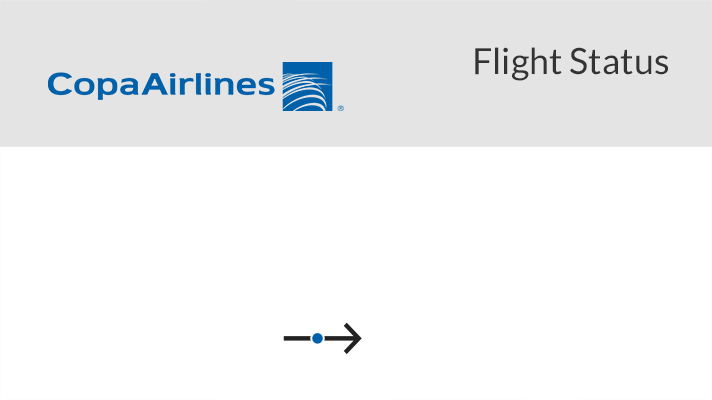
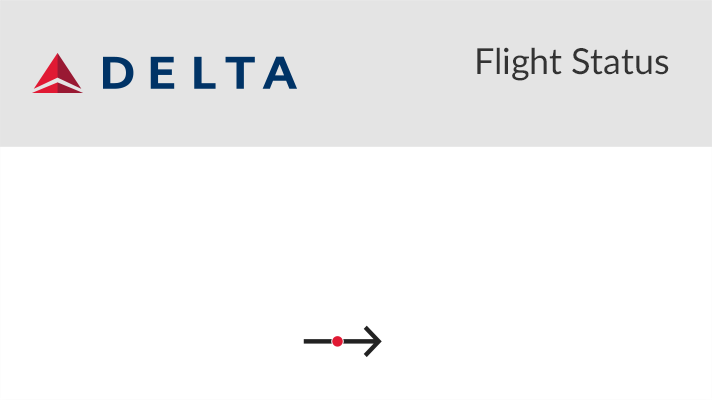
Branding Delta

diff --git a/public/css/style.css b/public/css/style.css
@@ -11,8 +11,8 @@ body {
 	font-size: 16px;
 }
 .navbar-inverse {
-    background-color: #0060a9;
-    border-color: #0060a9;
+    background-color: #003366;
+    border-color: #003366;
 }
 .navbar-brand {
     padding: 7px 0px 5px;
@@ -92,10 +92,10 @@ h3 {
     margin: 10px auto;
 }
 .red{
-	color: #0060a9;
+	color: #003366;
 }
 a.red, a.red:active{
-	color: #0060a9;
+	color: #003366;
 }
 a.red:hover{
 	color: #004477;

diff --git a/src/classes.php b/src/classes.php
@@ -898,9 +898,9 @@ class FlightImage {
         $img->text($FlightData->location, $FontPathRegular, 22, '#a9a9a9', 'top', 195, 269);
 
         //City 1 Bogota Big
-        $img->text("BOG", $FontPathLight, 62, '#0060a9', 'left', 22, 140);
+        $img->text("BOG", $FontPathLight, 62, '#003366', 'left', 22, 140);
         // City 2  BIG
-        $img->text($FlightData->airport, $FontPathLight, 62, '#0060a9', 'right', -85, 140);
+        $img->text($FlightData->airport, $FontPathLight, 62, '#003366', 'right', -85, 140);
         
         //Once Created set path to be saved 
 

diff --git a/templates/checkout.php b/templates/checkout.php
@@ -37,7 +37,7 @@ $AwsHost = 'http://bot.airportdigital.com/AirlineBotService/public/';
             <span class="icon-bar"></span>
             <span class="icon-bar"></span>
           </button-->
-          <a class="navbar-brand" href="#"><img src="../../../check-out-images/logo-copa.png"/></a>
+          <a class="navbar-brand" href="#"><img src="../../../check-out-images/logo-delta.png"/></a>
         </div>
         <div id="navbar" class="navbar-collapse collapse">
         </div><!--/.navbar-collapse -->

diff --git a/templates/confirmation.php b/templates/confirmation.php
@@ -36,7 +36,7 @@ $AwsHost = 'http://bot.airportdigital.com/AirlineBotService/public/';
             <span class="icon-bar"></span>
             <span class="icon-bar"></span>
           </button-->
-          <a class="navbar-brand" href="#"><img src="./check-out-images/logo-copa.png"/></a>
+          <a class="navbar-brand" href="#"><img src="./check-out-images/logo-delta.png"/></a>
         </div>
         <div id="navbar" class="navbar-collapse collapse">
         </div><!--/.navbar-collapse -->

diff --git a/templates/review-purchase.php b/templates/review-purchase.php
@@ -35,7 +35,7 @@ $AwsHost = 'http://bot.airportdigital.com/AirlineBotService/public/';
             <span class="icon-bar"></span>
             <span class="icon-bar"></span>
           </button-->
-          <a class="navbar-brand" href="#"><img src="./check-out-images/logo-copa.png"/></a>
+          <a class="navbar-brand" href="#"><img src="./check-out-images/logo-delta.png"/></a>
         </div>
         <div id="navbar" class="navbar-collapse collapse">
         </div><!--/.navbar-collapse -->
